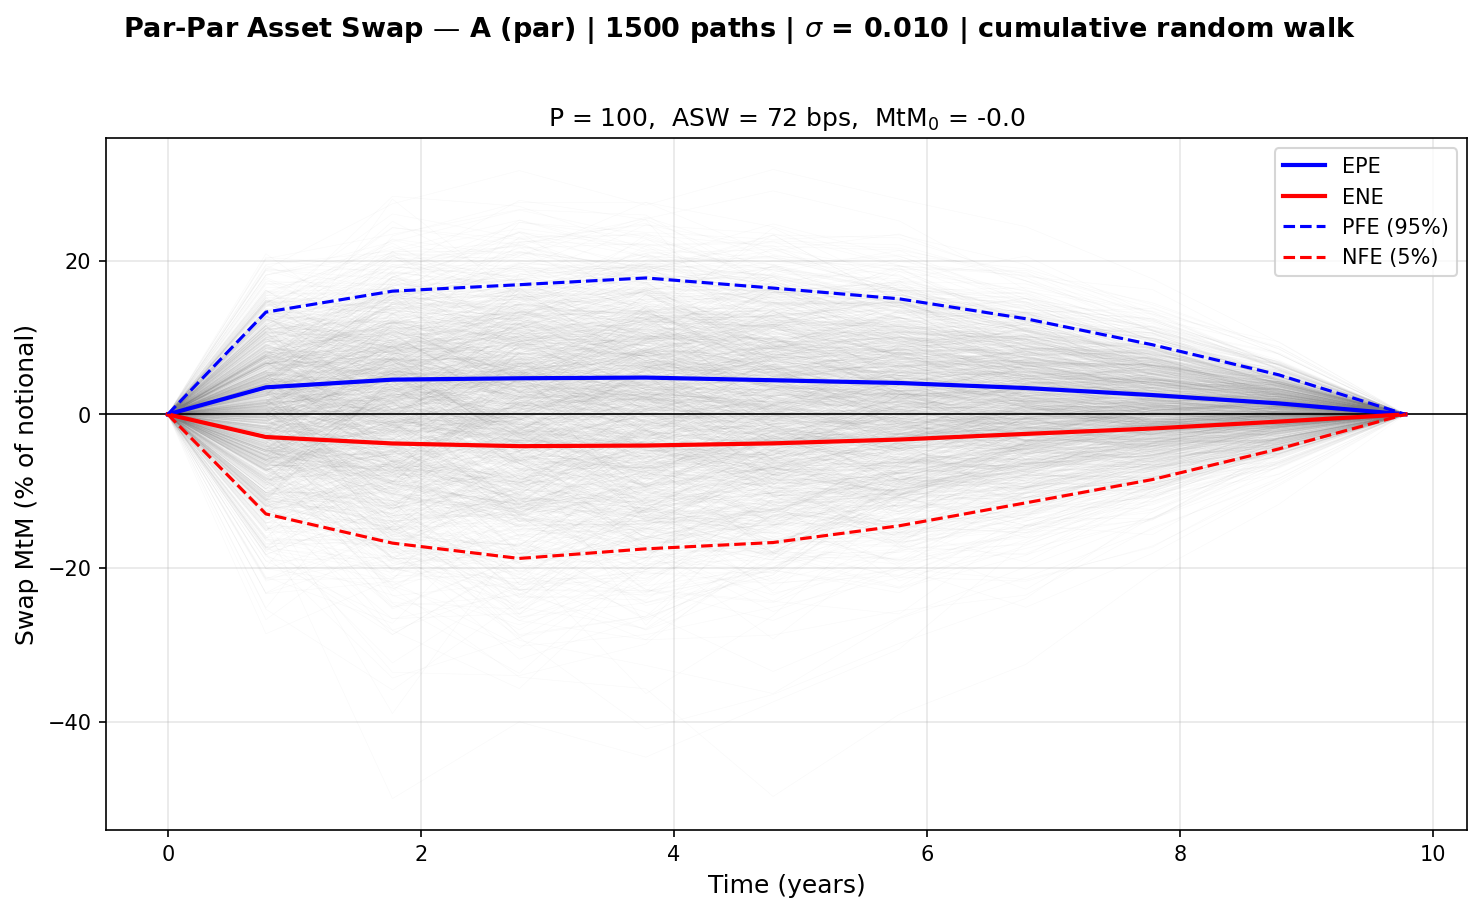
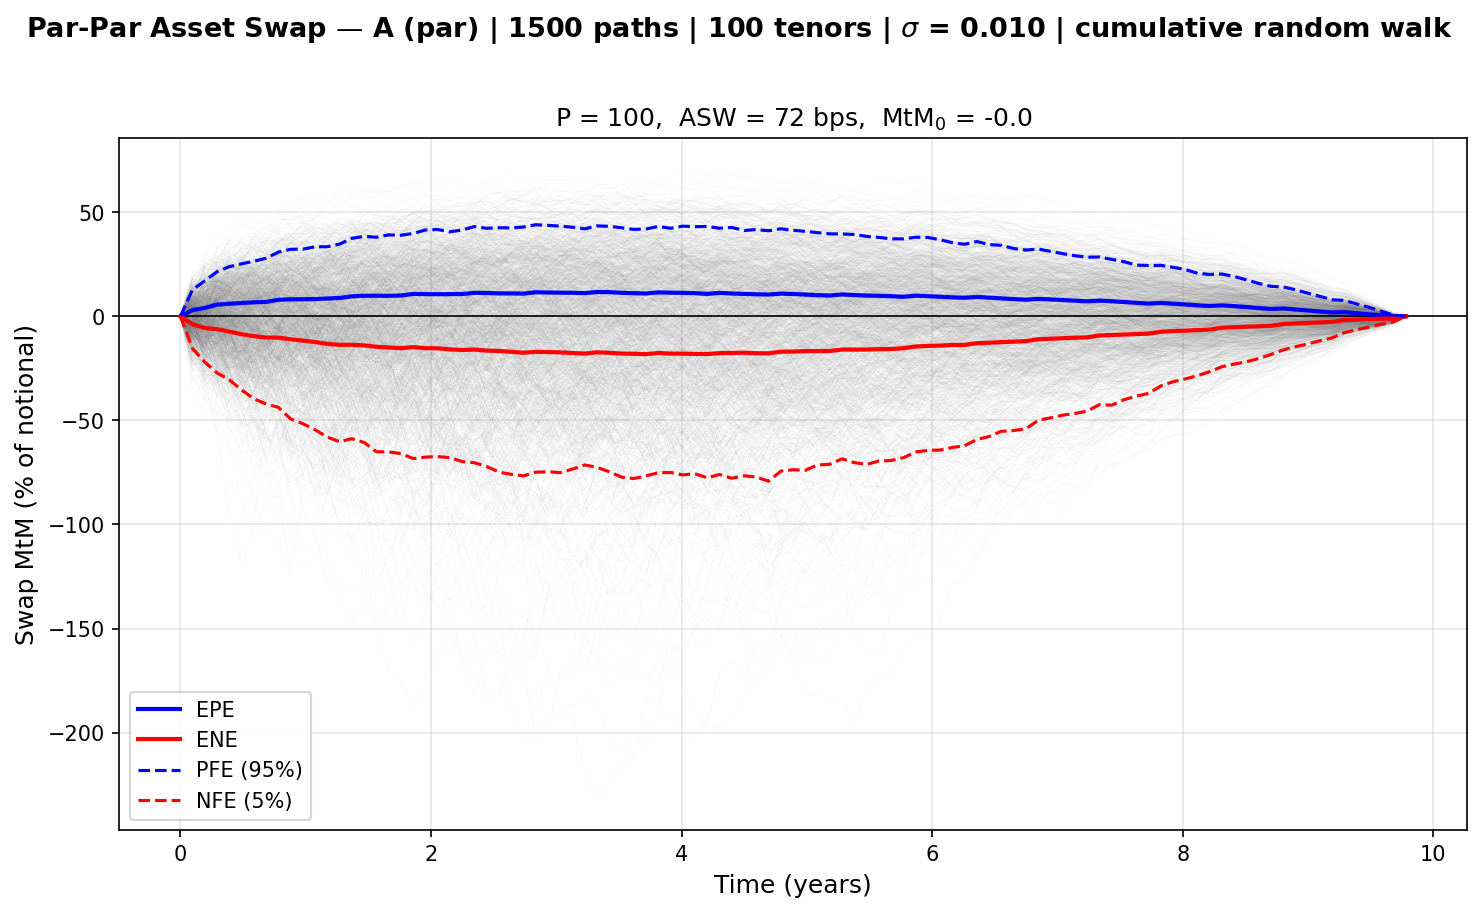
Restore fix-fix sawtooth, add OIS curve plot, fix EPE/ENE symmetry
Switch to 100 equally-spaced tenor points (from 10 annual), which
restores the fix-fix sawtooth (observation dates fall between semi-
annual coupons so A_rem step-downs are visible) and widens the
cumulative shift distribution (std ~10% vs ~3%), breaking the near-
perfect EPE/ENE symmetry via exp(-dz*t) convexity. Added OIS zero
curve plot and symmetry diagnostic (skewness=-0.96, EPE/|ENE|=0.63).

https://claude.ai/code/session_01C9YQZrd7hzpYqkqkU8KkPY

diff --git a/Exposure_ASW.py b/Exposure_ASW.py
@@ -20,8 +20,11 @@ STRUCTURE 4:  Fix-for-fix differential swap
     Bank PAYS:     3.00% fixed
     MtM = (c_recv - c_pay) * N * A_rem = 0.50% * N * A_rem
     Always positive (bank always ITM).  One-sided exposure.
+    Exhibits sawtooth profile: MtM steps down at each semi-annual
+    coupon date as the bank receives a net coupon payment.
 
 EXPOSURE SIMULATION:
+  - 100 equally spaced observation dates from today to maturity
   - Cumulative parallel ESTR shifts (random walk):
       shifts[:, 0] = 0,  shifts[:, t] = shifts[:, t-1] + N(0, sigma)
   - Analytical DF shifting: DF_shifted(d) = DF_base(d) * exp(-dz * t_d)
@@ -52,8 +55,9 @@ OIS_TENORS = ["1W", "1Y", "2Y", "3Y", "4Y", "5Y", "6Y", "7Y", "8Y", "9Y", "10Y"]
 OIS_ZEROS  = [0.01931, 0.023711, 0.02448, 0.02475, 0.025132,
               0.02558, 0.0260515, 0.026589, 0.0271, 0.027626, 0.02814]
 
-N_PATHS = 1500
-SIGMA   = 0.010
+N_PATHS  = 1500
+N_TENORS = 100
+SIGMA    = 0.010
 np.random.seed(42)
 
 # Three bond price scenarios for the par-par ASW
@@ -129,22 +133,10 @@ r_s  = (1.0 - df_T) / annuity
 
 # ==============================================================
 # [6]  ASW SPREAD AND INCEPTION MtM FOR EACH SCENARIO
-#
-#      ASW = (c - r_s) + (N - P) / (N * A)
-#
-#      Swap MtM at inception (from bank's perspective):
-#        MtM = N*(1 - DF_T) + (ASW - c)*N*A
-#            = N*(1 - DF_T) + [-(1 - DF_T)/A + (N - P)/(N*A) - c + c]*N*A  ... nah
-#            = N*(1 - DF_T) - r_s*N*A + (N - P)/A * A
-#            = N*(1 - DF_T) - N*(1 - DF_T) + (N - P)
-#            = N - P = 100 - P
-#
-#      Check: swap_MtM + P = 100  ✓
 # ==============================================================
 sep = "=" * 68
 print(sep)
-print("  COUNTERPARTY EXPOSURE — PAR-PAR ASSET SWAP")
-print("  Bond price sensitivity study")
+print("  COUNTERPARTY EXPOSURE — FOUR SWAP STRUCTURES")
 print(sep)
 
 print(f"\n[1]  COMMON PARAMETERS")
@@ -166,19 +158,24 @@ for label, P in SCENARIOS:
     scenario_data.append((label, P, asw, mtm0))
 
 # ==============================================================
-# [7]  TENOR GRID — t=0 (today) + 10 annual observation dates
+# [7]  TENOR GRID — 100 equally spaced from today to maturity
+#
+#      Dense grid is essential for the fix-for-fix sawtooth:
+#      observation dates fall between semi-annual coupon dates,
+#      so A_rem steps down visibly at each coupon payment.
 # ==============================================================
-n_tenors = 10
-step = max(1, len(coupon_dates) // n_tenors)
-sim_tenor_dates = coupon_dates[step-1::step][:n_tenors]
+maturity_serial = BOND_MATURITY.serialNumber()
+today_serial = today.serialNumber()
 
-tenor_dates = [today] + sim_tenor_dates
+tenor_serial = np.linspace(today_serial, maturity_serial, N_TENORS + 1, dtype=int)
+tenor_serial = np.unique(tenor_serial)
+tenor_dates = [ql.Date(int(s)) for s in tenor_serial]
 tenor_years = np.array([ois_dc.yearFraction(today, d) for d in tenor_dates])
 
-print(f"\n[3]  OBSERVATION DATES ({len(tenor_dates)} tenors)")
-for i, (d, y) in enumerate(zip(tenor_dates, tenor_years)):
-    label = "  <- deterministic (shift = 0)" if y == 0.0 else ""
-    print(f"    {i+1:>2}. {d}  ({y:.2f}Y){label}")
+print(f"\n[3]  TENOR GRID")
+print(f"  {len(tenor_dates)} observation dates from {today} to {BOND_MATURITY}")
+print(f"  First 5: {', '.join(str(d) for d in tenor_dates[:5])}")
+print(f"  Last 5:  {', '.join(str(d) for d in tenor_dates[-5:])}")
 
 # ==============================================================
 # [8]  PRE-COMPUTE BASE DFs AND COUPON PERIOD DATA
@@ -205,7 +202,7 @@ mat_serial = BOND_MATURITY.serialNumber()
 # [9]  GENERATE CUMULATIVE RANDOM WALK SHIFTS
 #      shifts[:, 0] = 0
 #      shifts[:, t] = shifts[:, t-1] + N(0, sigma)
-#      Same paths reused for all three scenarios.
+#      Same paths reused across all four structures.
 # ==============================================================
 increments = np.random.normal(0.0, SIGMA, size=(N_PATHS, len(tenor_dates)))
 increments[:, 0] = 0.0
@@ -222,9 +219,10 @@ print(f"  Shift stats at final tenor: mean={shifts[:,-1].mean():.4f}, "
 #       These are scenario-independent. The only scenario-specific
 #       quantity is (ASW - c), which is a scalar.
 #
-#       MtM(obs) = N*(1 - DF_fwd_T) + (ASW - c)*N*A_rem
+#       ASW scenarios: MtM = N*(1 - DF_fwd_T) + (ASW - c)*N*A_rem
+#       Fix-fix:       MtM = (c_recv - c_pay) * N * A_rem
 # ==============================================================
-arr_A_rem   = np.zeros((N_PATHS, len(tenor_dates)))
+arr_A_rem    = np.zeros((N_PATHS, len(tenor_dates)))
 arr_df_fwd_T = np.ones((N_PATHS, len(tenor_dates)))
 
 for t_idx in range(len(tenor_dates)):
@@ -257,17 +255,14 @@ for t_idx in range(len(tenor_dates)):
 print("  Pre-computation of A_rem and DF_fwd_T complete.")
 
 # ==============================================================
-# [11]  COMPUTE MtM FOR EACH SCENARIO
-#
-#       MtM = N*(1 - DF_fwd_T) + (ASW - c)*N*A_rem
+# [11]  COMPUTE MtM FOR EACH ASW SCENARIO
 # ==============================================================
-float_term = N_PCT * (1.0 - arr_df_fwd_T)   # same for all scenarios
+float_term = N_PCT * (1.0 - arr_df_fwd_T)
 
 mtm_all = {}
 for label, P, asw, mtm0 in scenario_data:
-    spread_diff = asw - COUPON_RATE    # (ASW - c), negative for all scenarios here
-    mtm = float_term + spread_diff * N_PCT * arr_A_rem
-    mtm_all[label] = mtm
+    spread_diff = asw - COUPON_RATE
+    mtm_all[label] = float_term + spread_diff * N_PCT * arr_A_rem
 
 print("  MtM computed for all three ASW scenarios.")
 
@@ -276,7 +271,9 @@ print("  MtM computed for all three ASW scenarios.")
 #
 #       MtM = (c_recv - c_pay) * N * A_rem
 #       Always positive since c_recv > c_pay.
-#       Uses the same pre-computed arr_A_rem (same bond schedule).
+#       Sawtooth: A_rem steps down at each semi-annual coupon date
+#       as the bank receives a net coupon payment of
+#       (c_recv - c_pay) * alpha_i * N ≈ 0.25% of notional.
 # ==============================================================
 coupon_diff_ff = C_RECV - C_PAY
 mtm_fixfix     = coupon_diff_ff * N_PCT * arr_A_rem
@@ -284,7 +281,7 @@ mtm0_fixfix    = coupon_diff_ff * N_PCT * annuity
 
 mtm_all["Fix-Fix"] = mtm_fixfix
 
-print(f"\n[5b] FIX-FOR-FIX DIFFERENTIAL SWAP")
+print(f"\n[5]  FIX-FOR-FIX DIFFERENTIAL SWAP")
 print(f"  Bank receives:  {C_RECV*100:.2f}% fixed")
 print(f"  Bank pays:      {C_PAY*100:.2f}% fixed")
 print(f"  Inception MtM:  {mtm0_fixfix:.4f}% of notional (always positive)")
@@ -335,7 +332,66 @@ if (len(tenor_dates) - 1) % step_print != 0:
 print(f"\n  Always positive: bank receives more than it pays.")
 
 # ==============================================================
-# [14]  FOUR INDIVIDUAL PLOTS — one per structure
+# [14]  SYMMETRY DIAGNOSTIC — par ASW scenario
+#
+#       With a normal (additive) shift model and moderate sigma,
+#       the MtM formula is approximately linear in the shift dz,
+#       so the distribution is nearly symmetric around inception.
+#       Asymmetry arises from the exp(-dz*t) convexity (Jensen's
+#       inequality): large negative shifts inflate DFs exponentially
+#       while positive shifts compress them toward zero.
+#       With 100 steps and sigma=0.010, the cumulative shift std
+#       at ~5Y is ~0.07 (7%), enough for visible convexity.
+# ==============================================================
+mtm_par = mtm_all["A (par)"]
+mid_idx = len(tenor_dates) // 2
+mtm_mid = mtm_par[:, mid_idx]
+skew_mid = float(np.mean(((mtm_mid - mtm_mid.mean()) / mtm_mid.std()) ** 3))
+epe_mid, ene_mid = metrics["A (par)"][0][mid_idx], metrics["A (par)"][1][mid_idx]
+
+print(f"\n[7]  EPE / ENE SYMMETRY DIAGNOSTIC  (par scenario, t = {tenor_years[mid_idx]:.1f}Y)")
+print(f"  EPE:                {epe_mid:>8.4f}")
+print(f"  |ENE|:              {abs(ene_mid):>8.4f}")
+print(f"  EPE / |ENE|:        {epe_mid / abs(ene_mid):>8.4f}  (1.0 = perfect symmetry)")
+print(f"  MtM skewness:       {skew_mid:>8.4f}  (0 = symmetric)")
+print(f"  Shift std at t:     {shifts[:, mid_idx].std():>8.4f}  ({shifts[:, mid_idx].std()*100:.1f}%)")
+print(f"\n  The normal shift model produces near-symmetric MtM for small")
+print(f"  shifts.  Asymmetry grows with sigma because exp(-dz*t) is convex:")
+print(f"  negative shifts inflate DFs exponentially (unbounded), while")
+print(f"  positive shifts compress them toward zero (bounded below).")
+
+# ==============================================================
+# [15]  PLOT 0 — OIS ZERO CURVE + SAMPLE SHIFTED CURVES
+# ==============================================================
+fig, ax = plt.subplots(figsize=(10, 6))
+
+curve_tenors_yr = np.array([ois_dc.yearFraction(today, calendar.advance(today, ql.Period(t)))
+                            for t in OIS_TENORS])
+curve_zeros_pct = np.array(OIS_ZEROS) * 100
+
+ax.plot(curve_tenors_yr, curve_zeros_pct, "k-o", lw=2.5, ms=6, label="Base OIS curve", zorder=5)
+
+sample_shifts = [-0.02, -0.01, 0.01, 0.02]
+colors_shift = ["#2196F3", "#90CAF9", "#FFAB91", "#F44336"]
+for dz, col in zip(sample_shifts, colors_shift):
+    shifted_pct = (np.array(OIS_ZEROS) + dz) * 100
+    sign = "+" if dz > 0 else ""
+    ax.plot(curve_tenors_yr, shifted_pct, "--", color=col, lw=1.5,
+            label=f"Parallel shift {sign}{dz*100:.0f}%", zorder=3)
+
+ax.set_xlabel("Tenor (years)", fontsize=12)
+ax.set_ylabel("Zero rate (%, continuously compounded)", fontsize=12)
+ax.set_title("ESTR/OIS Zero Curve — Base and Sample Parallel Shifts", fontsize=13,
+             fontweight="bold")
+ax.legend(fontsize=10)
+ax.grid(True, alpha=0.3)
+plt.tight_layout()
+fig.savefig("plots/ois_curve.png", dpi=150, bbox_inches="tight")
+plt.close(fig)
+print(f"\n  Plot saved to plots/ois_curve.png")
+
+# ==============================================================
+# [16]  FOUR INDIVIDUAL EXPOSURE PLOTS
 # ==============================================================
 def save_exposure_plot(filename, tenor_yrs, mtm, epe, ene, pfe, nfe, title, suptitle):
     fig, ax = plt.subplots(figsize=(10, 6))
@@ -357,7 +413,7 @@ def save_exposure_plot(filename, tenor_yrs, mtm, epe, ene, pfe, nfe, title, supt
     plt.close(fig)
     print(f"  Plot saved to {filename}")
 
-common_sup = f"{N_PATHS} paths | $\\sigma$ = {SIGMA:.3f} | cumulative random walk"
+common_sup = f"{N_PATHS} paths | {N_TENORS} tenors | $\\sigma$ = {SIGMA:.3f} | cumulative random walk"
 
 for label, P, asw, mtm0 in scenario_data:
     epe, ene, pfe, nfe = metrics[label]
